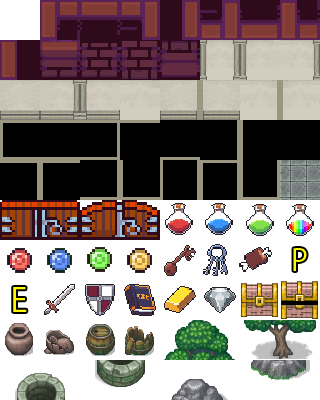
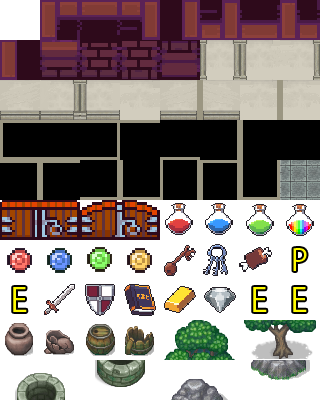
敵キャラの配置

Changed region(s): [[0.75, 0.69, 1.0, 0.81]]

diff --git a/zelda/source/GameScene.cpp b/zelda/source/GameScene.cpp
@@ -72,7 +72,7 @@ uniqueBase GameScene::UpDate(uniqueBase own, const GameCtrl & controller)
 			if (lpInfoCtrl.GetEnemyFlag(i))
 			{
 				VECTOR2 Ipos = lpMapCtrl.GetItemPos(MAP_ID::ENEMY, tmp);
-				lpMapCtrl.SetUpEnemy(objList, i, Ipos.x, Ipos.y);
+				lpMapCtrl.SetUpEnemy(objList, i, Ipos.x, Ipos.y,lpInfoCtrl.GetEnemyName(i));
 				tmp++;
 			}
 		}

diff --git a/zelda/source/MAP_ID.h b/zelda/source/MAP_ID.h
@@ -69,8 +69,8 @@ enum class MAP_ID
 	BOOK,
 	GOLD,
 	DIA,
-	BOX_1,
-	BOX_2,
+	ENEMY_2,
+	ENEMY_3,
 	MOTH_1,
 	MOTH_2,
 	MOTH_3,
